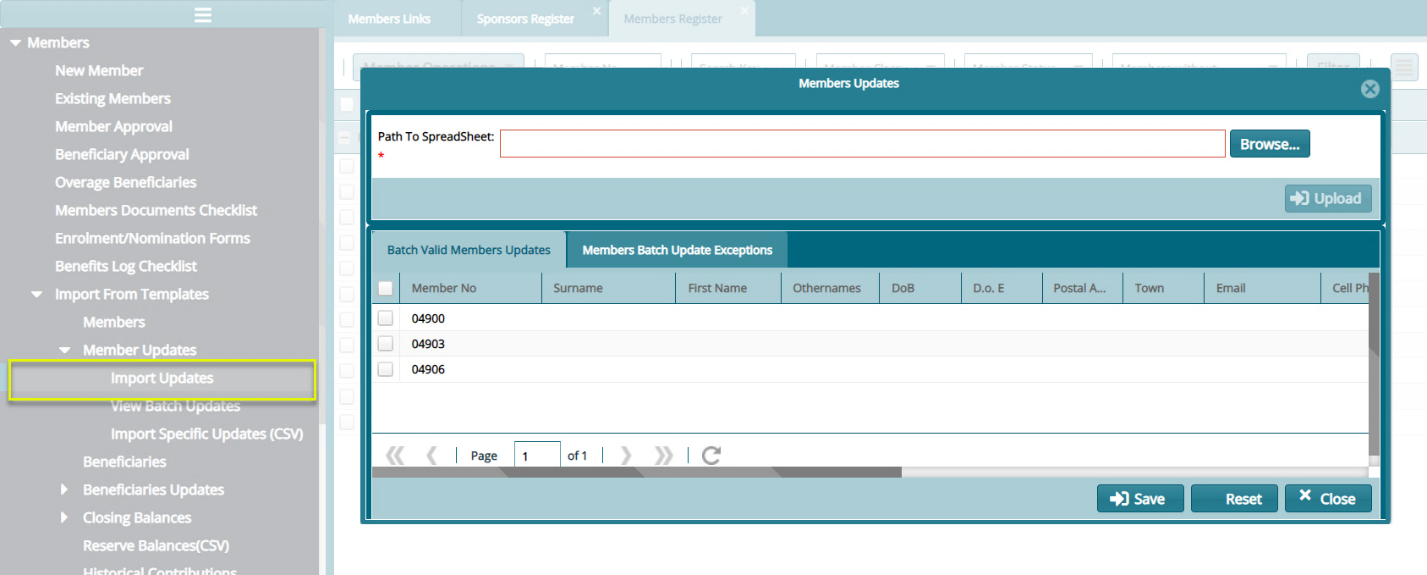
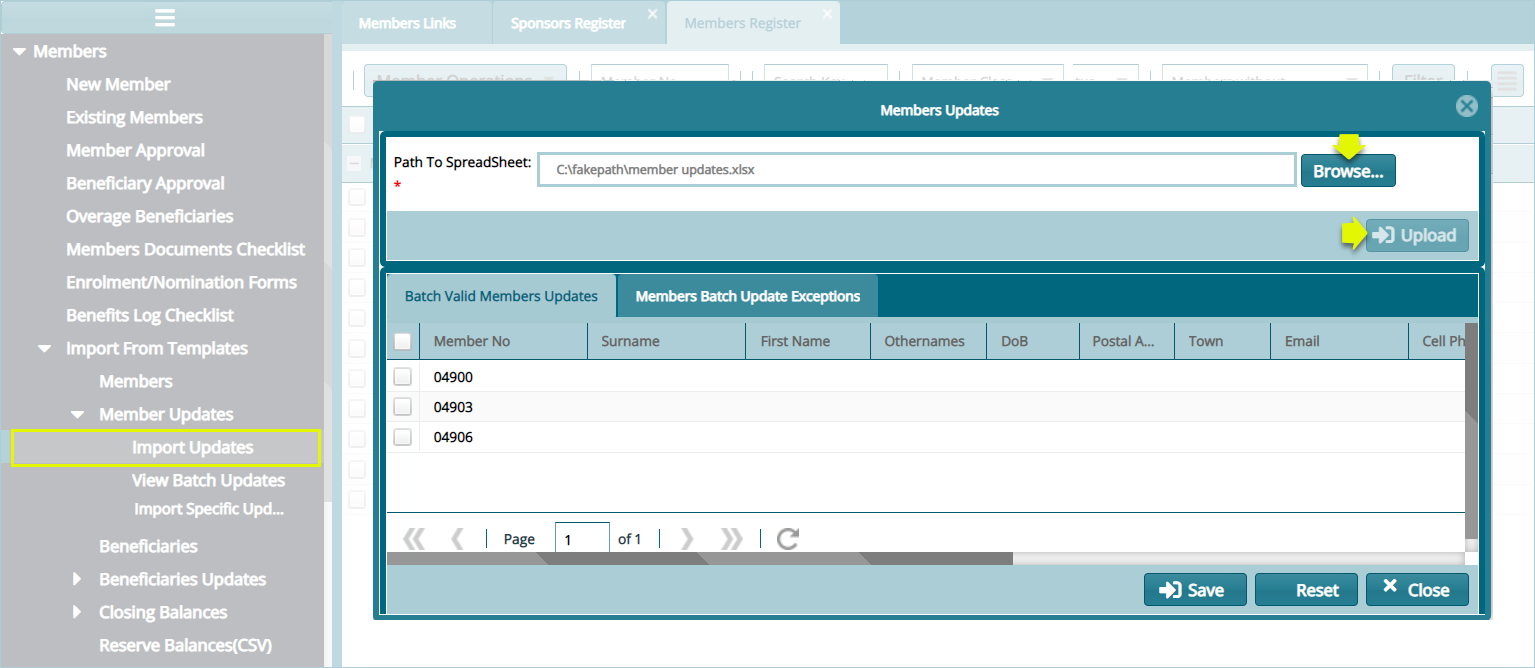
mbrupdates

diff --git a/members/updatingMemberRegister.md b/members/updatingMemberRegister.md
@@ -12,6 +12,6 @@ Clicking the link as shown above will open a new window allowing one to download
 <img  alt="download confirmation message" width="40%" height="auto"  class="center"  src="../media3/downloadalert.png"> 
 
 
-After downloading and updating the member details in the template appropriately, upload the template to the system to save the changes in the register. The following screenshot show the process.
+After downloading and updating the member details in the template appropriately, upload the template to the system to save the changes in the register. The following screenshot shows a window with a successful update process:
 
-<img  alt="Members Document Checklist" width="90%" height="auto"  class="center"  src="../media3/memberupdateswindow.png"> 
+<img  alt="Members Document Checklist" width="95%" height="auto"  class="center"  src="../media3/memberupdateswindow.png"> 
